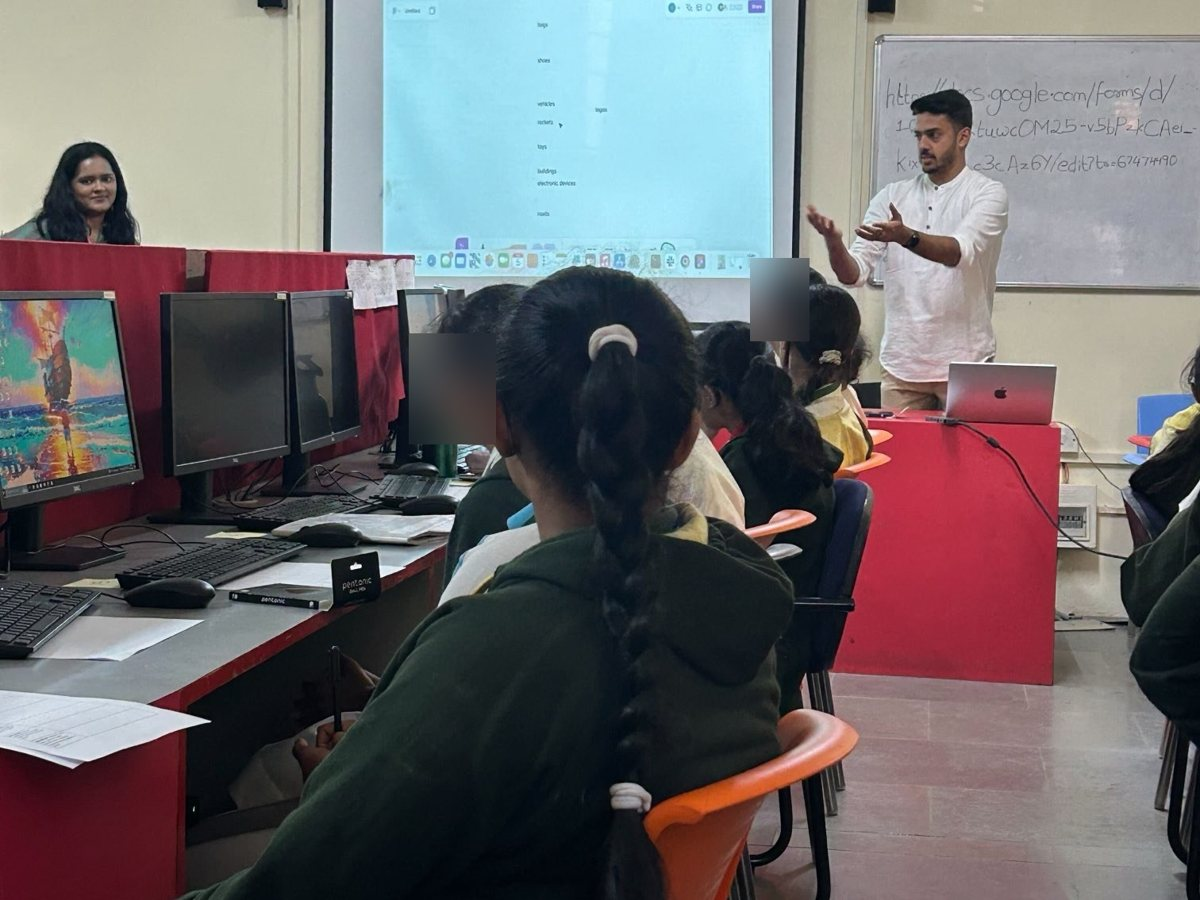
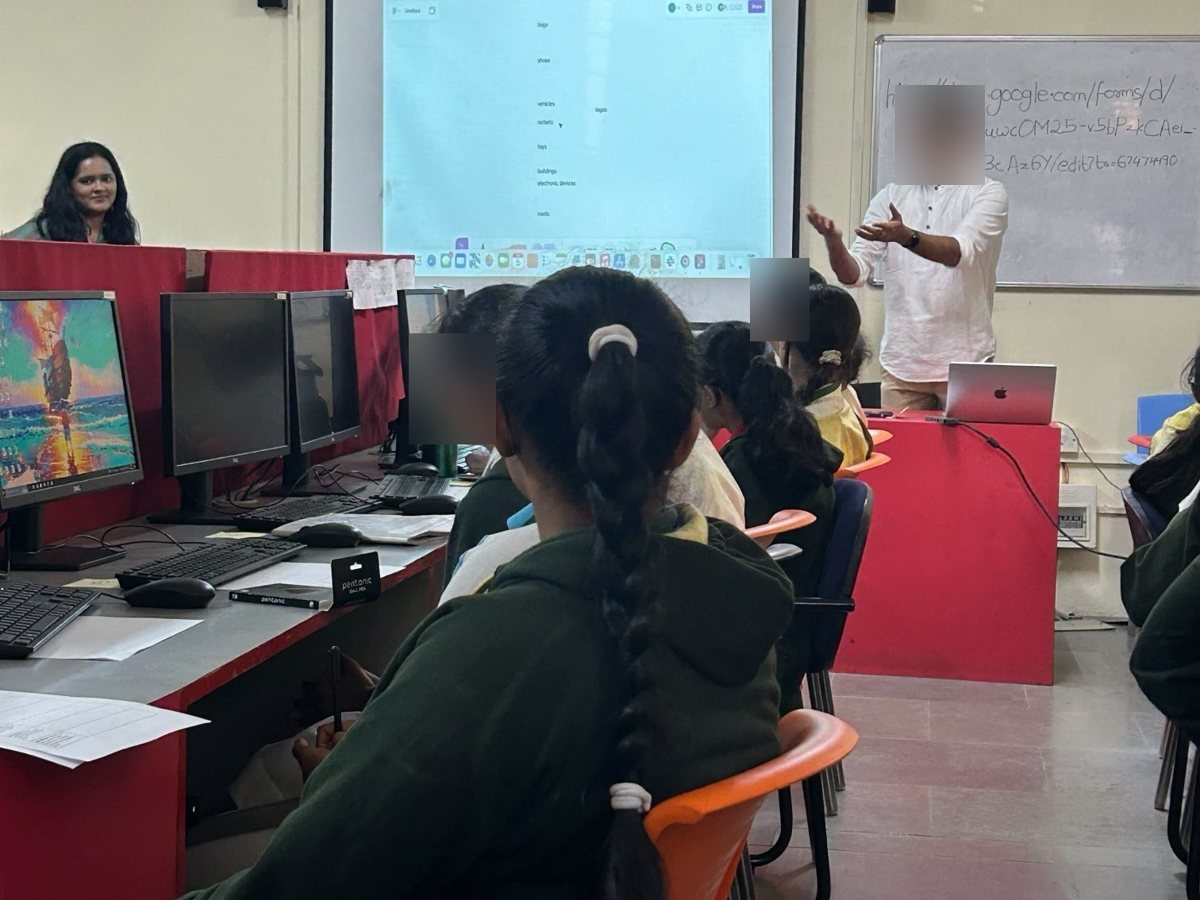
Blur colleague's face in playtest photo
Claude-Session: https://claude.ai/code/session_01ViFN6m3dgsjM9UY37cmKsB

Changed region(s): [[0.74, 0.0933, 0.8325, 0.2178]]

diff --git a/work.html b/work.html
@@ -374,7 +374,7 @@ section.co details.proj-dd:nth-of-type(2) .dd-body .sum{background:#F4F7EF}
     <li>Starting a research newsletter, online and in print, to share findings across the company (<a href="https://drive.google.com/file/d/1CWOjtGEsjHiLhAotV3C2OL0E7GDKViDu/view" target="_blank" rel="noopener">April '25 Wayground research newsletter</a>)</li>
     <li>Building recruitment practices and long-term relationships with hard-to-reach users like SPED teachers, as part of the Accommodations pod</li>
     <li><div class="li-fig"><span>Developing subject-specific frameworks for differentiating math and English content through secondary research, teacher task analysis and iterative co-design with special education teachers, drawing on long-term partnerships I had established</span><figure><a href="img/wg-differentiated.jpg" target="_blank" rel="noopener"><img src="img/wg-differentiated.jpg" width="1400" height="818" alt="Wayground help page: Create and Assign Differentiated Versions of the Same Resource" loading="lazy"></a><figcaption>Differentiated versions on Wayground</figcaption></figure></div></li>
-    <li>Running playtests with students in Bangalore schools and in a classroom we set up in the office, to test new features and help the product team see how teaching and learning actually happen in real time<div class="pt-row"><a href="img/wg-playtest-school.jpg?v=2" target="_blank" rel="noopener"><img src="img/wg-playtest-school.jpg?v=2" width="1200" height="900" alt="Saumya and a colleague running a playtest with students in a Bangalore school" loading="lazy"></a><a href="img/wg-playtest.jpg?v=2" target="_blank" rel="noopener"><img src="img/wg-playtest.jpg?v=2" width="495" height="408" alt="Students playtesting on school computers" loading="lazy"></a><a href="img/wg-playtest-room.jpg" target="_blank" rel="noopener"><img src="img/wg-playtest-room.jpg" width="1400" height="1050" alt="The classroom set up in the Quizizz office for playtests" loading="lazy"></a></div><p class="pt-cap">Playtests in Bangalore schools and in our office classroom</p></li>
+    <li>Running playtests with students in Bangalore schools and in a classroom we set up in the office, to test new features and help the product team see how teaching and learning actually happen in real time<div class="pt-row"><a href="img/wg-playtest-school.jpg?v=3" target="_blank" rel="noopener"><img src="img/wg-playtest-school.jpg?v=3" width="1200" height="900" alt="Saumya and a colleague running a playtest with students in a Bangalore school" loading="lazy"></a><a href="img/wg-playtest.jpg?v=2" target="_blank" rel="noopener"><img src="img/wg-playtest.jpg?v=2" width="495" height="408" alt="Students playtesting on school computers" loading="lazy"></a><a href="img/wg-playtest-room.jpg" target="_blank" rel="noopener"><img src="img/wg-playtest-room.jpg" width="1400" height="1050" alt="The classroom set up in the Quizizz office for playtests" loading="lazy"></a></div><p class="pt-cap">Playtests in Bangalore schools and in our office classroom</p></li>
   </ul>
 </div></details></aside></div>
 </section>

diff --git a/index.html b/index.html
@@ -465,7 +465,7 @@ html{scroll-behavior:smooth}
     <li>Starting a research newsletter, online and in print, to share findings across the company (<a href="https://drive.google.com/file/d/1CWOjtGEsjHiLhAotV3C2OL0E7GDKViDu/view" target="_blank" rel="noopener">April '25 Wayground research newsletter</a>)</li>
     <li>Building recruitment practices and long-term relationships with hard-to-reach users like SPED teachers, as part of the Accommodations pod</li>
     <li><div class="li-fig"><span>Developing subject-specific frameworks for differentiating math and English content through secondary research, teacher task analysis and iterative co-design with special education teachers, drawing on long-term partnerships I had established</span><figure><a href="img/wg-differentiated.jpg" target="_blank" rel="noopener"><img src="img/wg-differentiated.jpg" width="1400" height="818" alt="Wayground help page: Create and Assign Differentiated Versions of the Same Resource" loading="lazy"></a><figcaption>Differentiated versions on Wayground</figcaption></figure></div></li>
-    <li>Running playtests with students in Bangalore schools and in a classroom we set up in the office, to test new features and help the product team see how teaching and learning actually happen in real time<div class="pt-row"><a href="img/wg-playtest-school.jpg?v=2" target="_blank" rel="noopener"><img src="img/wg-playtest-school.jpg?v=2" width="1200" height="900" alt="Saumya and a colleague running a playtest with students in a Bangalore school" loading="lazy"></a><a href="img/wg-playtest.jpg?v=2" target="_blank" rel="noopener"><img src="img/wg-playtest.jpg?v=2" width="495" height="408" alt="Students playtesting on school computers" loading="lazy"></a><a href="img/wg-playtest-room.jpg" target="_blank" rel="noopener"><img src="img/wg-playtest-room.jpg" width="1400" height="1050" alt="The classroom set up in the Quizizz office for playtests" loading="lazy"></a></div><p class="pt-cap">Playtests in Bangalore schools and in our office classroom</p></li>
+    <li>Running playtests with students in Bangalore schools and in a classroom we set up in the office, to test new features and help the product team see how teaching and learning actually happen in real time<div class="pt-row"><a href="img/wg-playtest-school.jpg?v=3" target="_blank" rel="noopener"><img src="img/wg-playtest-school.jpg?v=3" width="1200" height="900" alt="Saumya and a colleague running a playtest with students in a Bangalore school" loading="lazy"></a><a href="img/wg-playtest.jpg?v=2" target="_blank" rel="noopener"><img src="img/wg-playtest.jpg?v=2" width="495" height="408" alt="Students playtesting on school computers" loading="lazy"></a><a href="img/wg-playtest-room.jpg" target="_blank" rel="noopener"><img src="img/wg-playtest-room.jpg" width="1400" height="1050" alt="The classroom set up in the Quizizz office for playtests" loading="lazy"></a></div><p class="pt-cap">Playtests in Bangalore schools and in our office classroom</p></li>
   </ul>
 </div></details></aside></div>
 </section>
